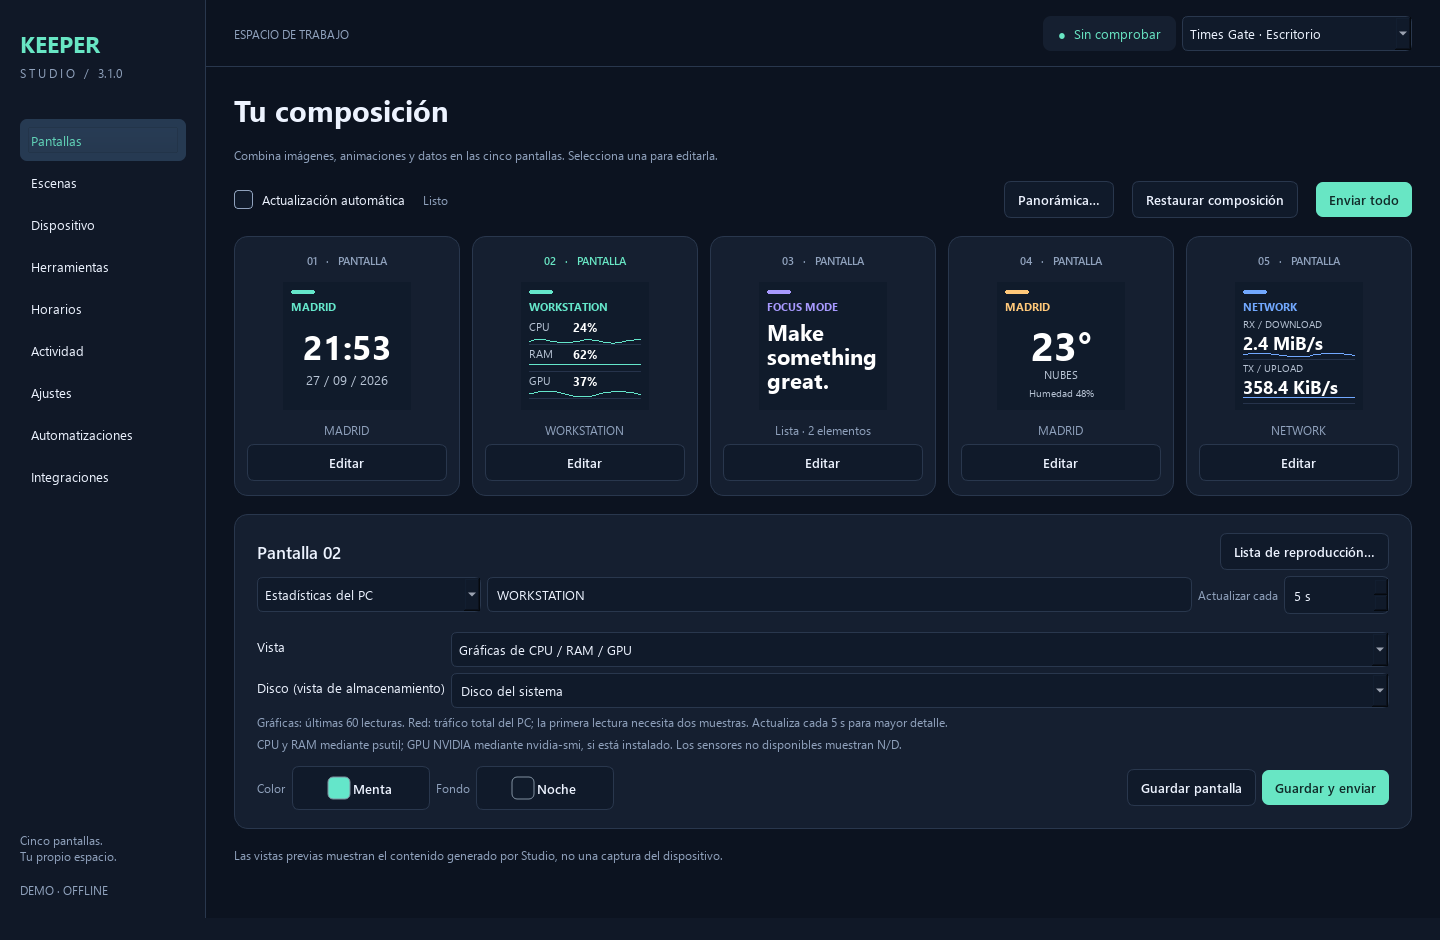
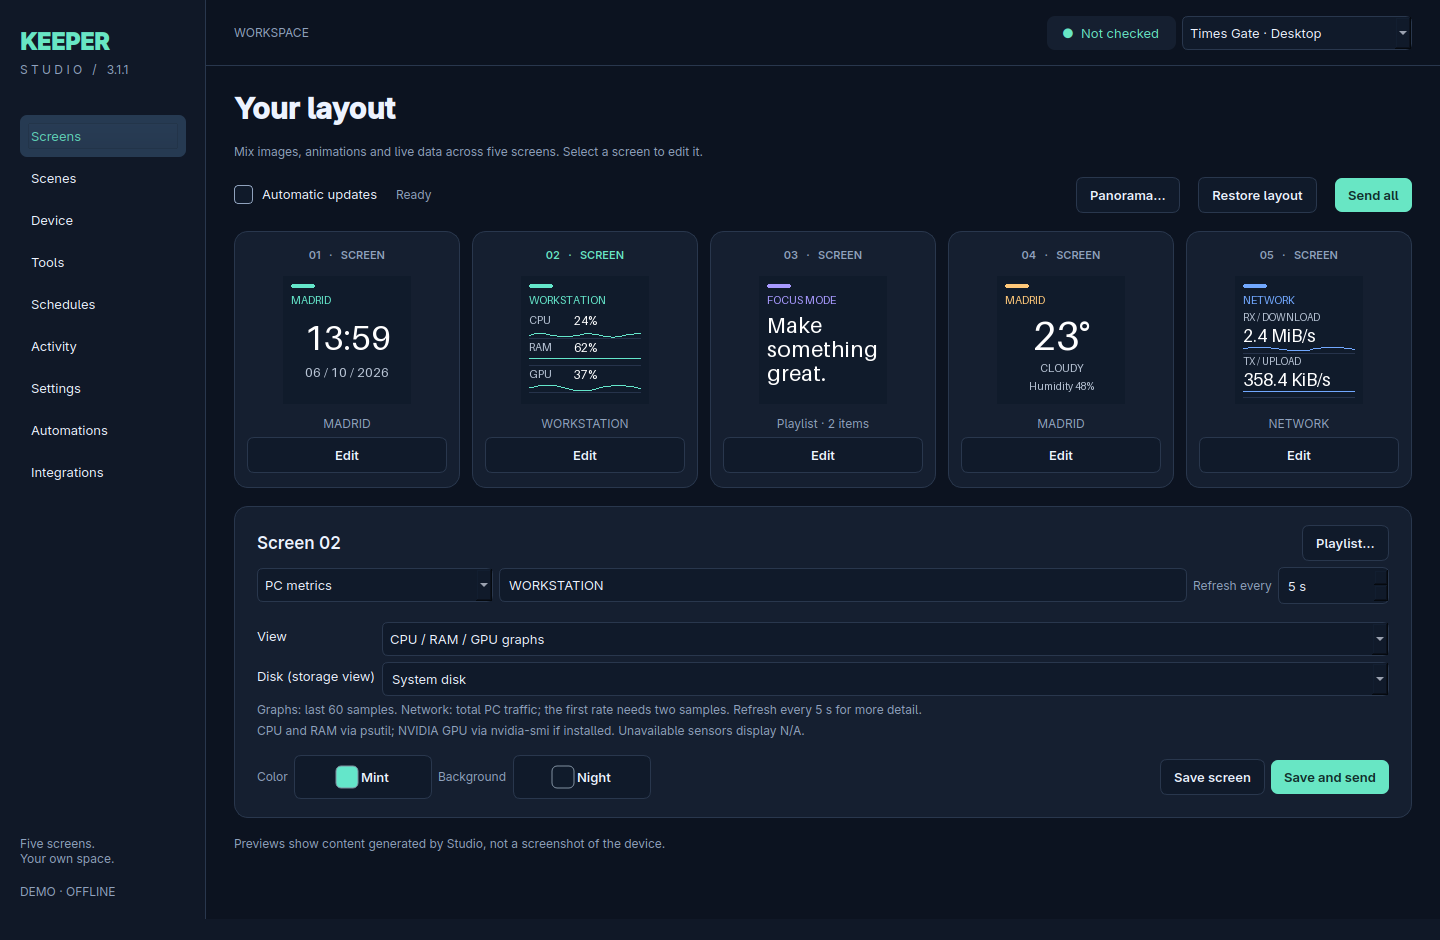
docs: retake desktop screenshots in English [skip ci]
Regenerated 12 desktop screenshots from demo mode with the English UI.
The two web/phone screenshots still need a browser to retake.

diff --git a/docs/SCREENSHOTS.md b/docs/SCREENSHOTS.md
@@ -4,7 +4,7 @@
 
 These are actual interface screenshots using demo settings, names, metrics and sample content. Screen previews are generated by the app; they are not photographs of the physical Times Gate. The phone-sized view is a browser preview, not a validated Android/iOS installation.
 
-The desktop RGB screenshot shows **3.1.1**. The other examples were captured for **3.1.0** and still illustrate the corresponding features. Screenshots use Spanish; the desktop interface also supports English through Settings.
+The desktop RGB screenshot shows **3.1.1**. The other examples were captured for **3.1.0** and still illustrate the corresponding features. Desktop screenshots use English (the desktop interface also supports Spanish through Settings); the web portal screenshots (RGB web and phone-sized view) have not been retaken yet and may still show Spanish.
 
 ## Five-screen layout
 

diff --git a/README.md b/README.md
@@ -10,7 +10,7 @@ Turn the five screens of your **Divoom Times Gate** into a display for images, a
 
 ![Keeper Studio: five screens with a clock, PC monitor, text, weather and network data](docs/screenshots/screens.png)
 
-*Actual application screenshot in demo mode with sample data. Screen previews show content generated by Keeper, not photographs of the device. The desktop UI supports English and Spanish; these screenshots use Spanish.*
+*Actual application screenshot in demo mode with sample data. Screen previews show content generated by Keeper, not photographs of the device. The desktop UI supports English and Spanish; the desktop screenshots use English, while the web and phone-sized screenshots in the screenshots page may still show Spanish.*
 
 ## What you can do
 
